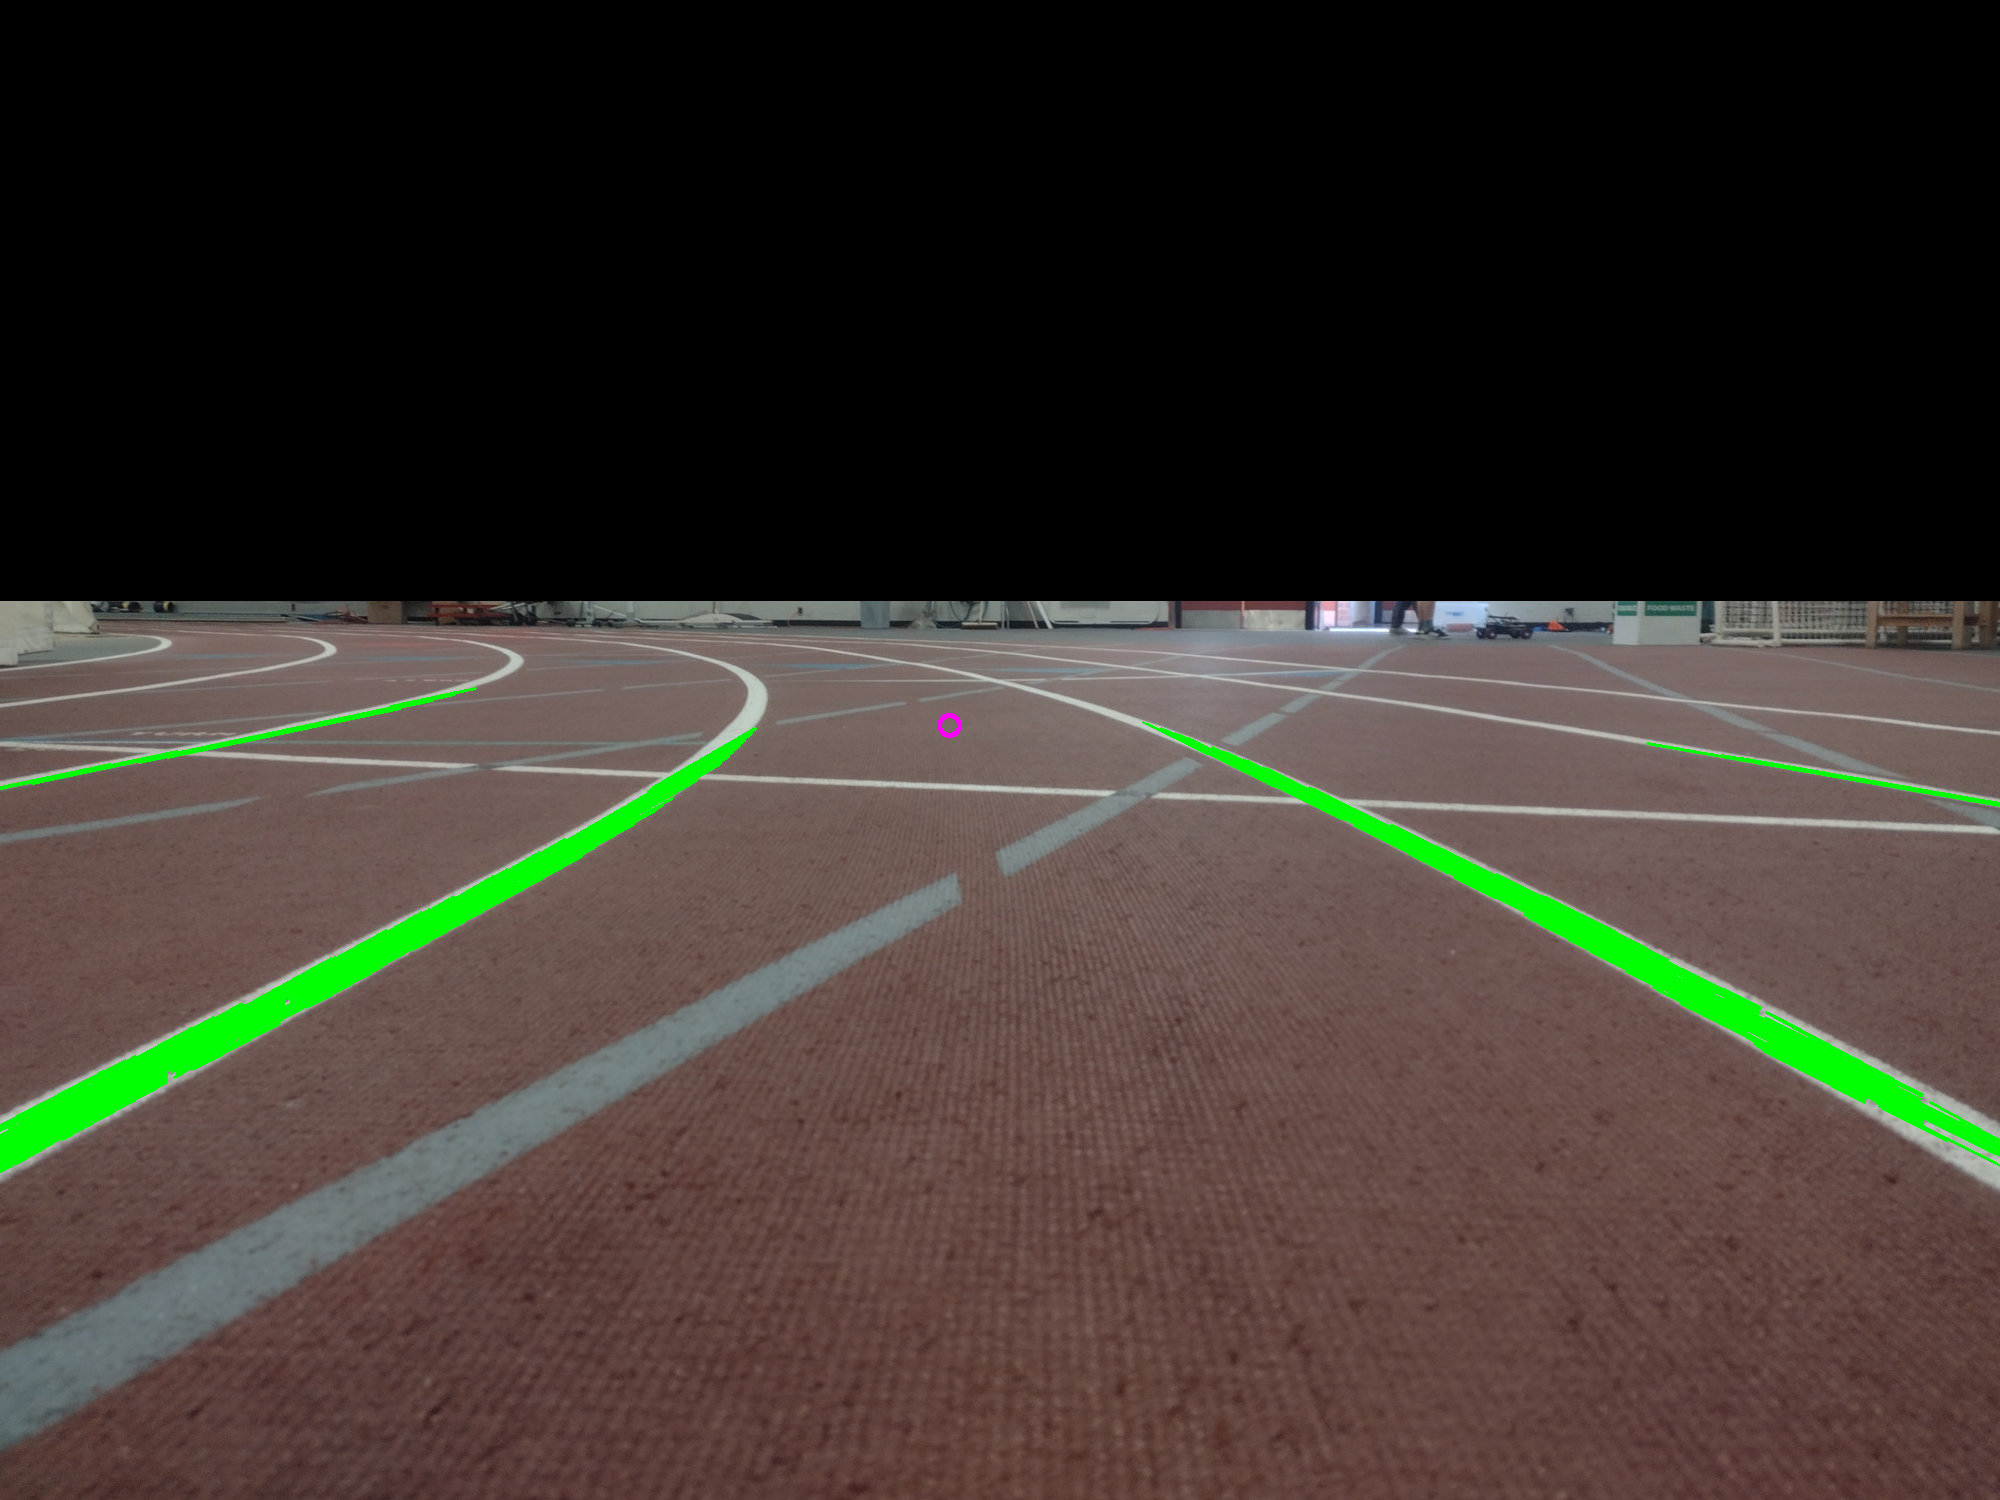
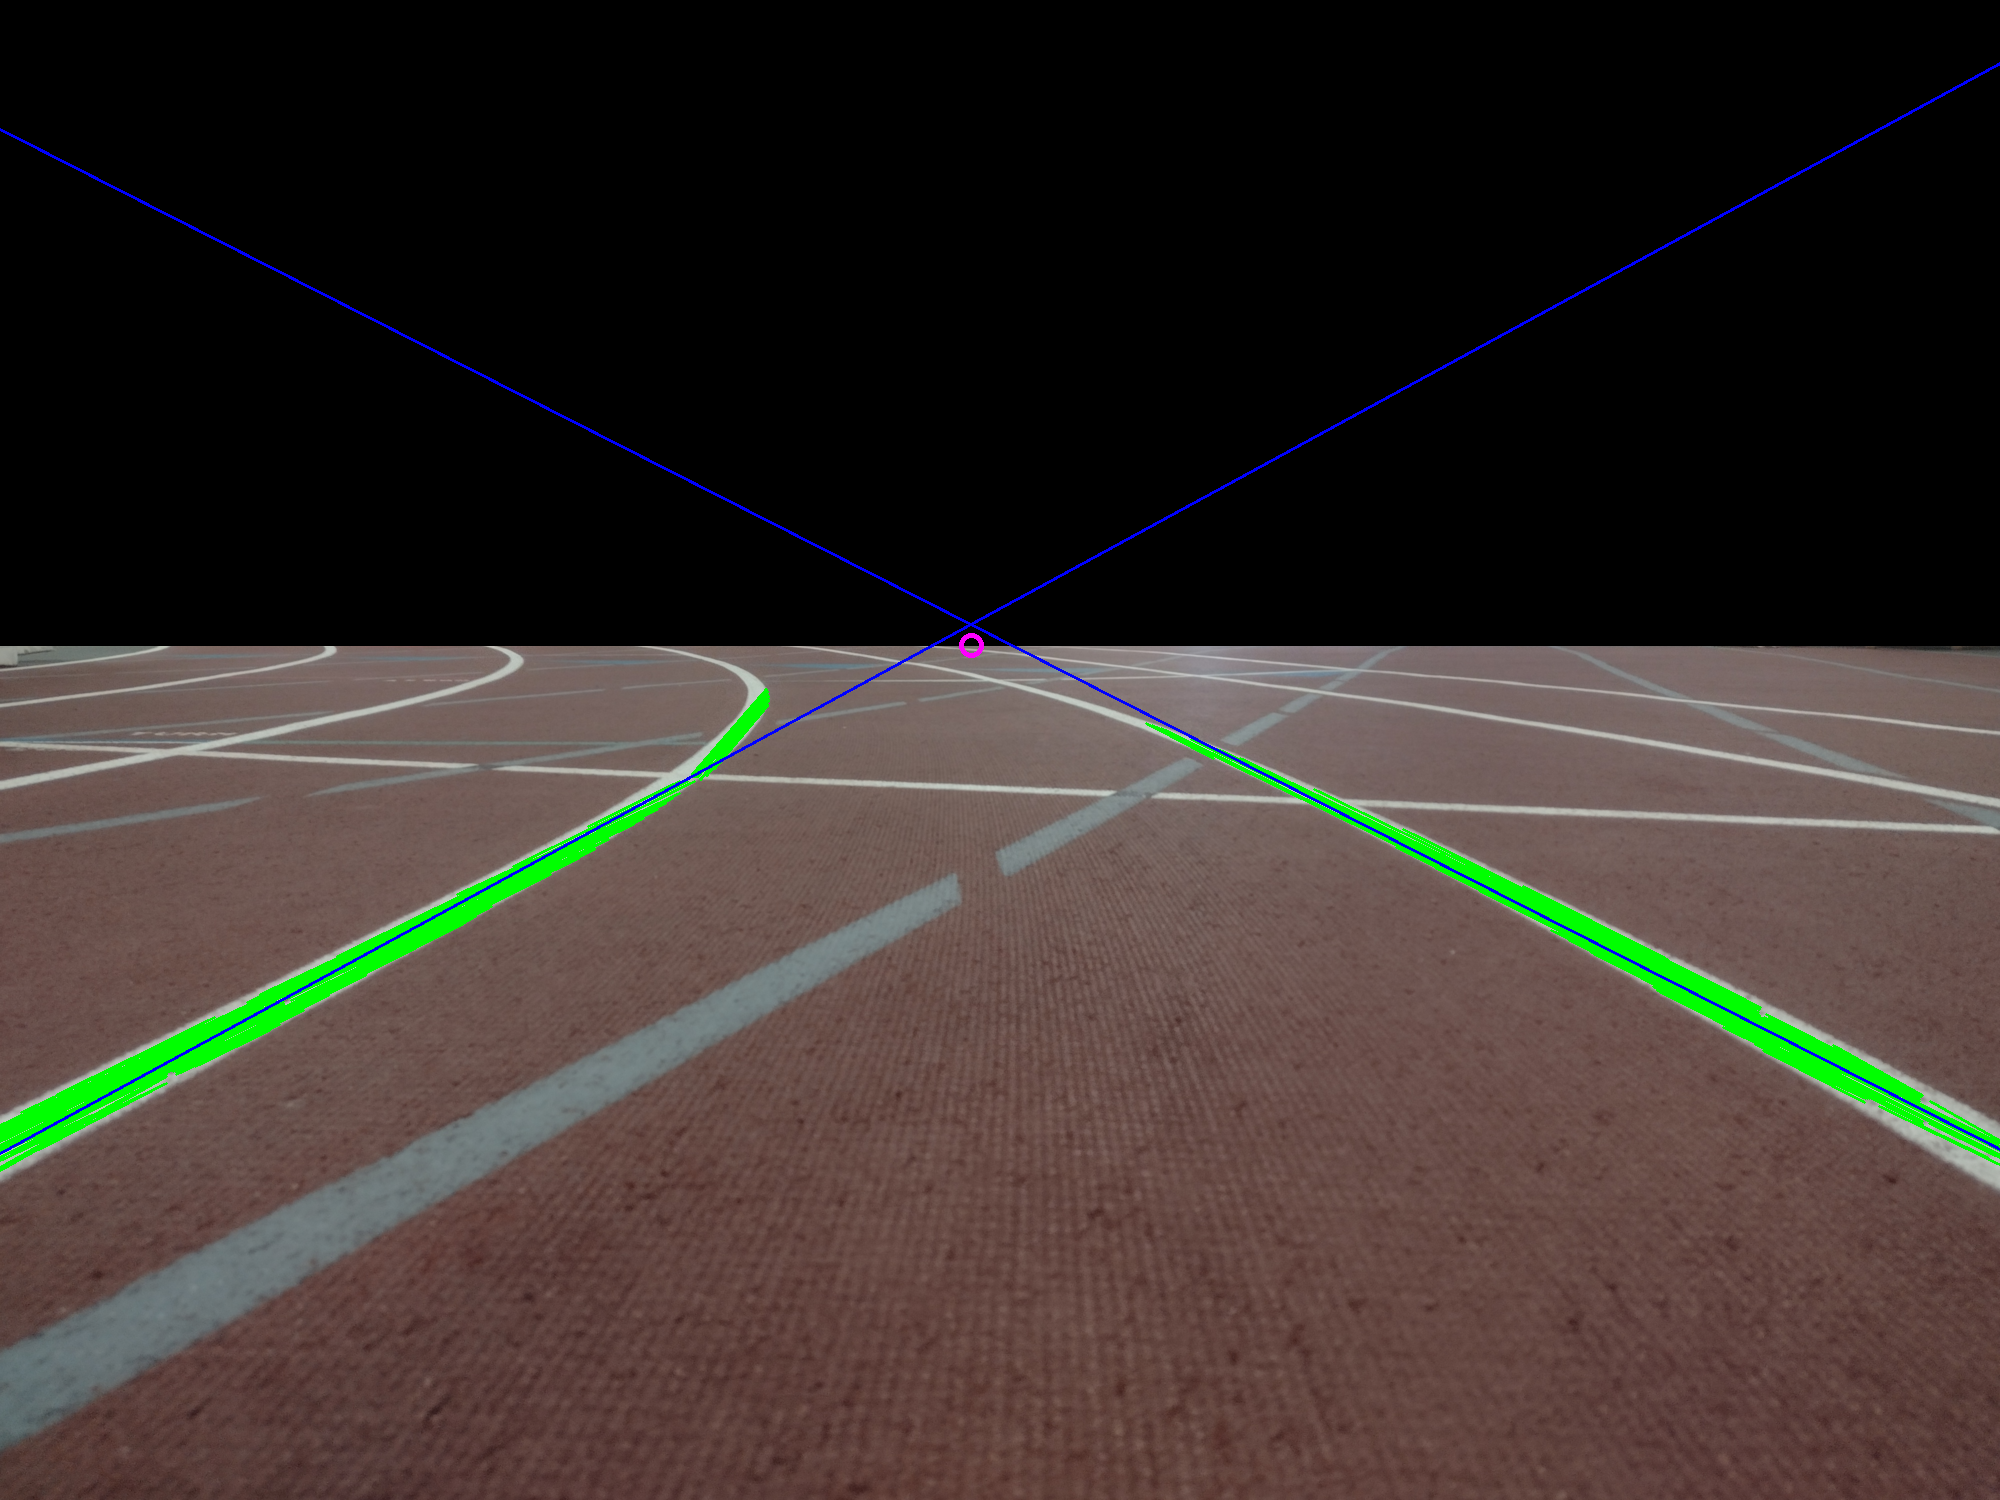
remove homography and find track lines using linregr

diff --git a/scripts/computer_vision/color_segmentation_trackfinder.py b/scripts/computer_vision/color_segmentation_trackfinder.py
@@ -1,5 +1,7 @@
 import cv2
 import numpy as np
+# import rospy
+import scipy
 
 #################### X-Y CONVENTIONS #########################
 # 0,0  X  > > > > >
@@ -39,12 +41,12 @@ def cd_color_segmentation(img):
 	height=len(img)
 	width=len(img[0])
 	cv2.rectangle(img, (0, 0), (width, int(height * non_track_ratio)), (0, 0, 0), -1)
-	cv2.rectangle(img, (0, int(height * 0.7)), (width, height), (0, 0, 0), -1)
+	# cv2.rectangle(img, (0, int(height * 0.7)), (width, height), (0, 0, 0), -1)
 	hsv=cv2.cvtColor(img, cv2.COLOR_BGR2HSV)
 	# image_print(hsv)
 
 	# lower bound and upper bound for white color
-	sensitivity = 90
+	sensitivity = 80
 	lower_bound = np.array([0,0,255-sensitivity])
 	upper_bound = np.array([255,sensitivity,255])
 
@@ -76,12 +78,15 @@ def cd_color_segmentation(img):
 	# minLineLength: The minimum number of points that can form a line. Lines with less than this number of points are disregarded.
 	# maxLineGap: The maximum gap between two points to be considered in the same line.
 
-	lines = cv2.HoughLinesP(mask, 1, np.pi / 180, 50, 5, 20)
-			# cv2.HoughLinesP(E,Rres,Thetares,Threshold,minLineLength,maxLineGap)
+	lines = cv2.HoughLinesP(mask, 2, np.pi / 400, 50, 5, 20)
+			# cv2.HoughLinesP(E,Rres,Thetares,Threshold,minLineLength,maxLineGap
+
+	
 	dots1 = []
 	dots2 = []
 	# Iterate over segments
     # Draw the lines
+        # rospy.loginfo(lines)
 	if lines is not None:
 		for i in range(0, len(lines)):
 			x1, y1, x2, y2 = lines[i][0]
@@ -90,71 +95,77 @@ def cd_color_segmentation(img):
 			dy = y2-y1
 			thres_dist = 75
 			dist = (dx**2+dy**2)**.5
-			if dx!=0 and dy!=0 and dist>thres_dist and abs(1-abs((dy/dx))) < 5 and abs(1-abs((dx/dy))) < 5: # this is a random tan(theta) threshold lol
+			if dx!=0 and dy!=0 and dist>thres_dist and abs(dy/dx)<3 and abs(dx/dy)<3:
 				# calculate rho theta of this pair
-				m = dy / dx
-				theta = np.arctan(m)
+				m = dy / (1.0 * dx)
+				theta = np.arctan2(dy, dx)
 				rho = x1 * np.cos(theta) + y1 * np.sin(theta)
 				thresholded_lines.append((rho,theta))
 				
 				# separates the line segments into left and right side
 				if m<0:
 					line1.append((rho,theta))
-					dots1.append((x1,y1))
-					dots1.append((x2,y2))
+					dots1.append([x1,y1])
+					dots1.append([x2,y2])
 					cv2.line(img,(x1,y1), (x2,y2),(0,255,0),2)
 				else:
 					line2.append((rho,theta))
-					dots2.append((x1,y1))
-					dots2.append((x2,y2))
+					dots2.append([x1,y1])
+					dots2.append([x2,y2])
 					cv2.line(img,(x1,y1), (x2,y2),(0,255,0),2)
 	
-	default_turn = int(width/10)
+	default_turn = int(width/3)
+	default_y = int(height*non_track_ratio)
 	if not line1 and not line2:
 		rospy.logwarn("NOT IN BETWEEN TRACKS")
 		return None
-	elif not line1 or len(line1)/len(line2)<0.2: #only see right line, gotta go left
-		return (int(width/2) - default_turn, int(height/2))
-	elif not line2 or len(line2)/len(line1)<0.2: #only see left line, gotta go right
-		return (int(width/2) + default_turn, int(height/2))
-
-	rho1 = np.median([x[0] for x in line1])
-	theta1 = np.median([x[1] for x in line1]) 
-	rho2 = np.median([x[0] for x in line2]) 				
-	theta2 = np.median([x[1] for x in line2]) 
-	two_lines = [(theta1, rho1), (theta2, rho2)]
-	print(two_lines)
-		# # Maintain a simples lookup list for points
-		# lines_list.append([(x1,y1),(x2,y2)])
-	dot1 = dots1[0]
-	dot2 = dots2[0]
-
-	for dot in dots1:
-		if dot[0]>dot1[0]:
-			dot1=dot
-	for dot in dots2:
-		if dot[0]<dot2[0]:
-			dot2=dot
-	# dot1 = (max(x[0] for x in dots1), min(x[1] for x in dots1))
-	# dot2 = (min(x[0] for x in dots2), min(x[1] for x in dots2))
-	goal = (int((dot1[0]+dot2[0])/2), int((dot1[1]+dot2[1])/2))
-	# cv2.circle(img, dot1, 5, (255,0,0), 3)
-	# cv2.circle(img, dot2, 5, (255,0,0), 3)
+	elif not line1: #only see right line, gotta go left
+		return (int(width/2) - default_turn, x)
+	elif not line2: #only seie left line, gotta go right
+		return (int(width/2) + default_turn, x)
+	line1x = [x[0] for x in dots1]
+	line1y = [x[1] for x in dots1]
+	line2x = [x[0] for x in dots2]
+	line2y = [x[1] for x in dots2]
+	slope1, intercept1, _,_,_ = scipy.stats.linregress(line1x, line1y)
+	slope2, intercept2, _,_,_ = scipy.stats.linregress(line2x, line2y)
+	def getY(x, m, b):
+		return (x, int(m*x+b))
+	def getX(y, m, b):
+		return (int((y-b)/m), y)
+	cv2.line(img, getY(0, slope1, intercept1), getY(width, slope1, intercept1), (255,0,0), 2)
+	cv2.line(img, getY(0, slope2, intercept2), getY(width, slope2, intercept2), (255,0,0), 2)
+	x = int((getX(default_y, slope1, intercept1)[0] + getX(default_y, slope2, intercept2)[0])/2)
+	goal = (x, default_y)
 	cv2.circle(img, goal, 10, (255, 0, 255), 3)
-
-	# Save the result image
 	cv2.imwrite('detectedLines.png',img)
-
+	print(goal)
 	return goal
+
+	# # Calculate the angle bisector line Ax + By + C = 0
+	# A1, B1, C1 = np.cos(theta1), np.sin(theta1), -rho1
+	# A2, B2, C2 = np.cos(theta2), np.sin(theta2), -rho2
+	# A, B, C = A1 - A2, B1 - B2, C1 - C2
+
+	# # Second line is the horizontal line y = int(height * non_track_ratio).
+	# # Find the intersection point:
+	# y = int(height * non_track_ratio)
+	# if abs(A) < 0.001:
+	# 	rospy.logwarn("Line found is horizontal")
+	# 	return None
+	
+	# x = (-C - B * y) / A
+
 
 
 # file = ".\johnson\IMG_20230426_170554291.jpg"
 # file = ".\johnson\IMG_20230426_170926916.jpg"
 # file = ".\johnson\IMG_20230426_170637041.jpg" # side straight
 # file = ".\johnson\IMG_20230426_171050506.jpg" #curve
+# image = cv2.imread("final_race/scripts/computer_vision/johnson/IMG_20230426_171054230.jpg")
 # image = cv2.imread(file)
 # if image is None:
-  #    print("Check file path")
+#     print("Check file path")
     
 # for smaller visualization
 # image = cv2.pyrDown(image)

diff --git a/scripts/line_detector.py b/scripts/line_detector.py
@@ -8,7 +8,7 @@ from cv_bridge import CvBridge, CvBridgeError
 
 from sensor_msgs.msg import Image
 from geometry_msgs.msg import Point #geometry_msgs not in CMake file
-from final_race.msg import ConeLocationPixel
+from final_race.msg import ConeLocationPixel, ConeLocation
 
 # import your color segmentation algorithm; call this function in ros_image_callback!
 from computer_vision.color_segmentation_trackfinder import cd_color_segmentation
@@ -25,7 +25,9 @@ class ConeDetector():
         self.LineFollower = False
 
         # Subscribe to ZED camera RGB frames
-        self.cone_pub = rospy.Publisher("/relative_cone_px", ConeLocationPixel, queue_size=10)
+        
+        # self.cone_pub = rospy.Publisher("/relative_cone_px", ConeLocationPixel, queue_size=10)
+        self.cone_pub = rospy.Publisher("/relative_cone", ConeLocation, queue_size=10)
         self.debug_pub = rospy.Publisher("/cone_debug_img", Image, queue_size=10)
         self.image_sub = rospy.Subscriber("/zed/zed_node/rgb/image_rect_color", Image, self.image_callback)
         self.bridge = CvBridge() # Converts between ROS images and OpenCV Images
@@ -45,10 +47,15 @@ class ConeDetector():
         # goal = (int(len(image[0])/2),int(len(image)/2))
         goal = cd_color_segmentation(image)
         if goal!=None: # sanity check 
-            center=ConeLocationPixel()
-            center.v=goal[1]
-            center.u=goal[0]
-            
+            # center=ConeLocationPixel()
+            # center.v=goal[1]
+            # center.u=goal[0]
+            print((len(image[0]), len(image)))
+            print(goal)
+            center = ConeLocation()
+            center.x_pos = 1
+            # -1 for left edge of cam pic, 1 for right edge of cam pic
+            center.y_pos = -1.0*(goal[0]-(len(image[0])/2))/(len(image[0])/2*1.0)
             # image = self.bridge.imgmsg_to_cv2(image_msg, "bgr8")
             non_track_ratio = 0.5
             height=len(image)

diff --git a/scripts/parking_controller.py b/scripts/parking_controller.py
@@ -25,8 +25,8 @@ class ParkingController():
             ParkingError, queue_size=10)
 
         self.parking_distance = float(rospy.get_param("~parking_distance", 0)) # meters; try playing with this number!
-        self.kp = rospy.get_param("~kd", 0.25)
-        self.kd = rospy.get_param("~kp", 0.5)
+        self.kp = 0.2
+        self.kd = 0
         self.prev_error = 0
         self.relative_x = 0
         self.relative_y = 0
@@ -36,15 +36,28 @@ class ParkingController():
     def relative_cone_callback(self, msg):
         self.relative_x = msg.x_pos
         self.relative_y = msg.y_pos
-
+        rospy.logwarn(msg)
         # notes on coordinate system: 
         relative_angle = math.atan2(self.relative_y, self.relative_x)
         de = self.relative_y-self.prev_error
         self.prev_error = self.relative_y
 
+        # rospy.logwarn(self.kd)
         steering_amount = min(0.18, abs(relative_angle/2)) 
-        steering_angle = steering_amount* self.relative_y * self.kp - self.kd * de
-       #  rospy.logwarn(steering_amount)
+        if abs(self.relative_y) > 1:
+            # rospy.logwarn(self.relative_y)
+            if self.relative_y >0:
+             #    rospy.logwarn(self.relative_y)
+                direction = 1 
+                rospy.logwarn("TURNING LEFT")
+            else:
+                direction = -1
+               #  rospy.logwarn(self.relative_y)
+                rospy.logwarn("TURNING RIGHT")
+            steering_angle = direction* self.kp + self.kd * de
+        else:
+            steering_angle = self.relative_y * self.kp + self.kd * de
+       #  rospy.logwarn(isteering_amount)
 
         drive_cmd = AckermannDriveStamped()
         drive_cmd.header = Header()

diff --git a/scripts/homography_transformer.py b/scripts/homography_transformer.py
@@ -32,17 +32,6 @@ PTS_IMAGE_PLANE = [
     [243, 274],
     [334, 270],
 ]
-# [[337,233],
-#                    [213, 274],
-#                    [259, 320],
-#                    [435, 257],
-#                    [566, 299],
-#                    [495, 232],
-#                    [346, 189],
-#                    [609, 231],
-#                    [93, 246],
-#                    [224, 192],
-#                    [477, 193]]
 ######################################################
 
 # PTS_GROUND_PLANE units are in inches
@@ -62,18 +51,6 @@ PTS_GROUND_PLANE = [
     [20, 7],
     [21, 0],
 ]
-
-# [[43.3071, 3],
-#                     [25.59, 12],
-#                     [16.9291, 7],
-#                     [31.4961, -7],
-#                     [21.2598, -12],
-#                     [18.5039, -20],
-#                     [137, 0],
-#                     [45, -32],
-#                     [27, 34],
-#                     [112, 40],
-#                     [120, -45]]
 ######################################################
 
 METERS_PER_INCH = 0.0254
@@ -114,8 +91,8 @@ class HomographyTransformer:
         relative_xy_msg = ConeLocation()
         relative_xy_msg.x_pos = x
         relative_xy_msg.y_pos = y
-
-        self.cone_pub.publish(relative_xy_msg)
+        if x > 0:
+            self.cone_pub.publish(relative_xy_msg)
 
 
     def transformUvToXy(self, u, v):
